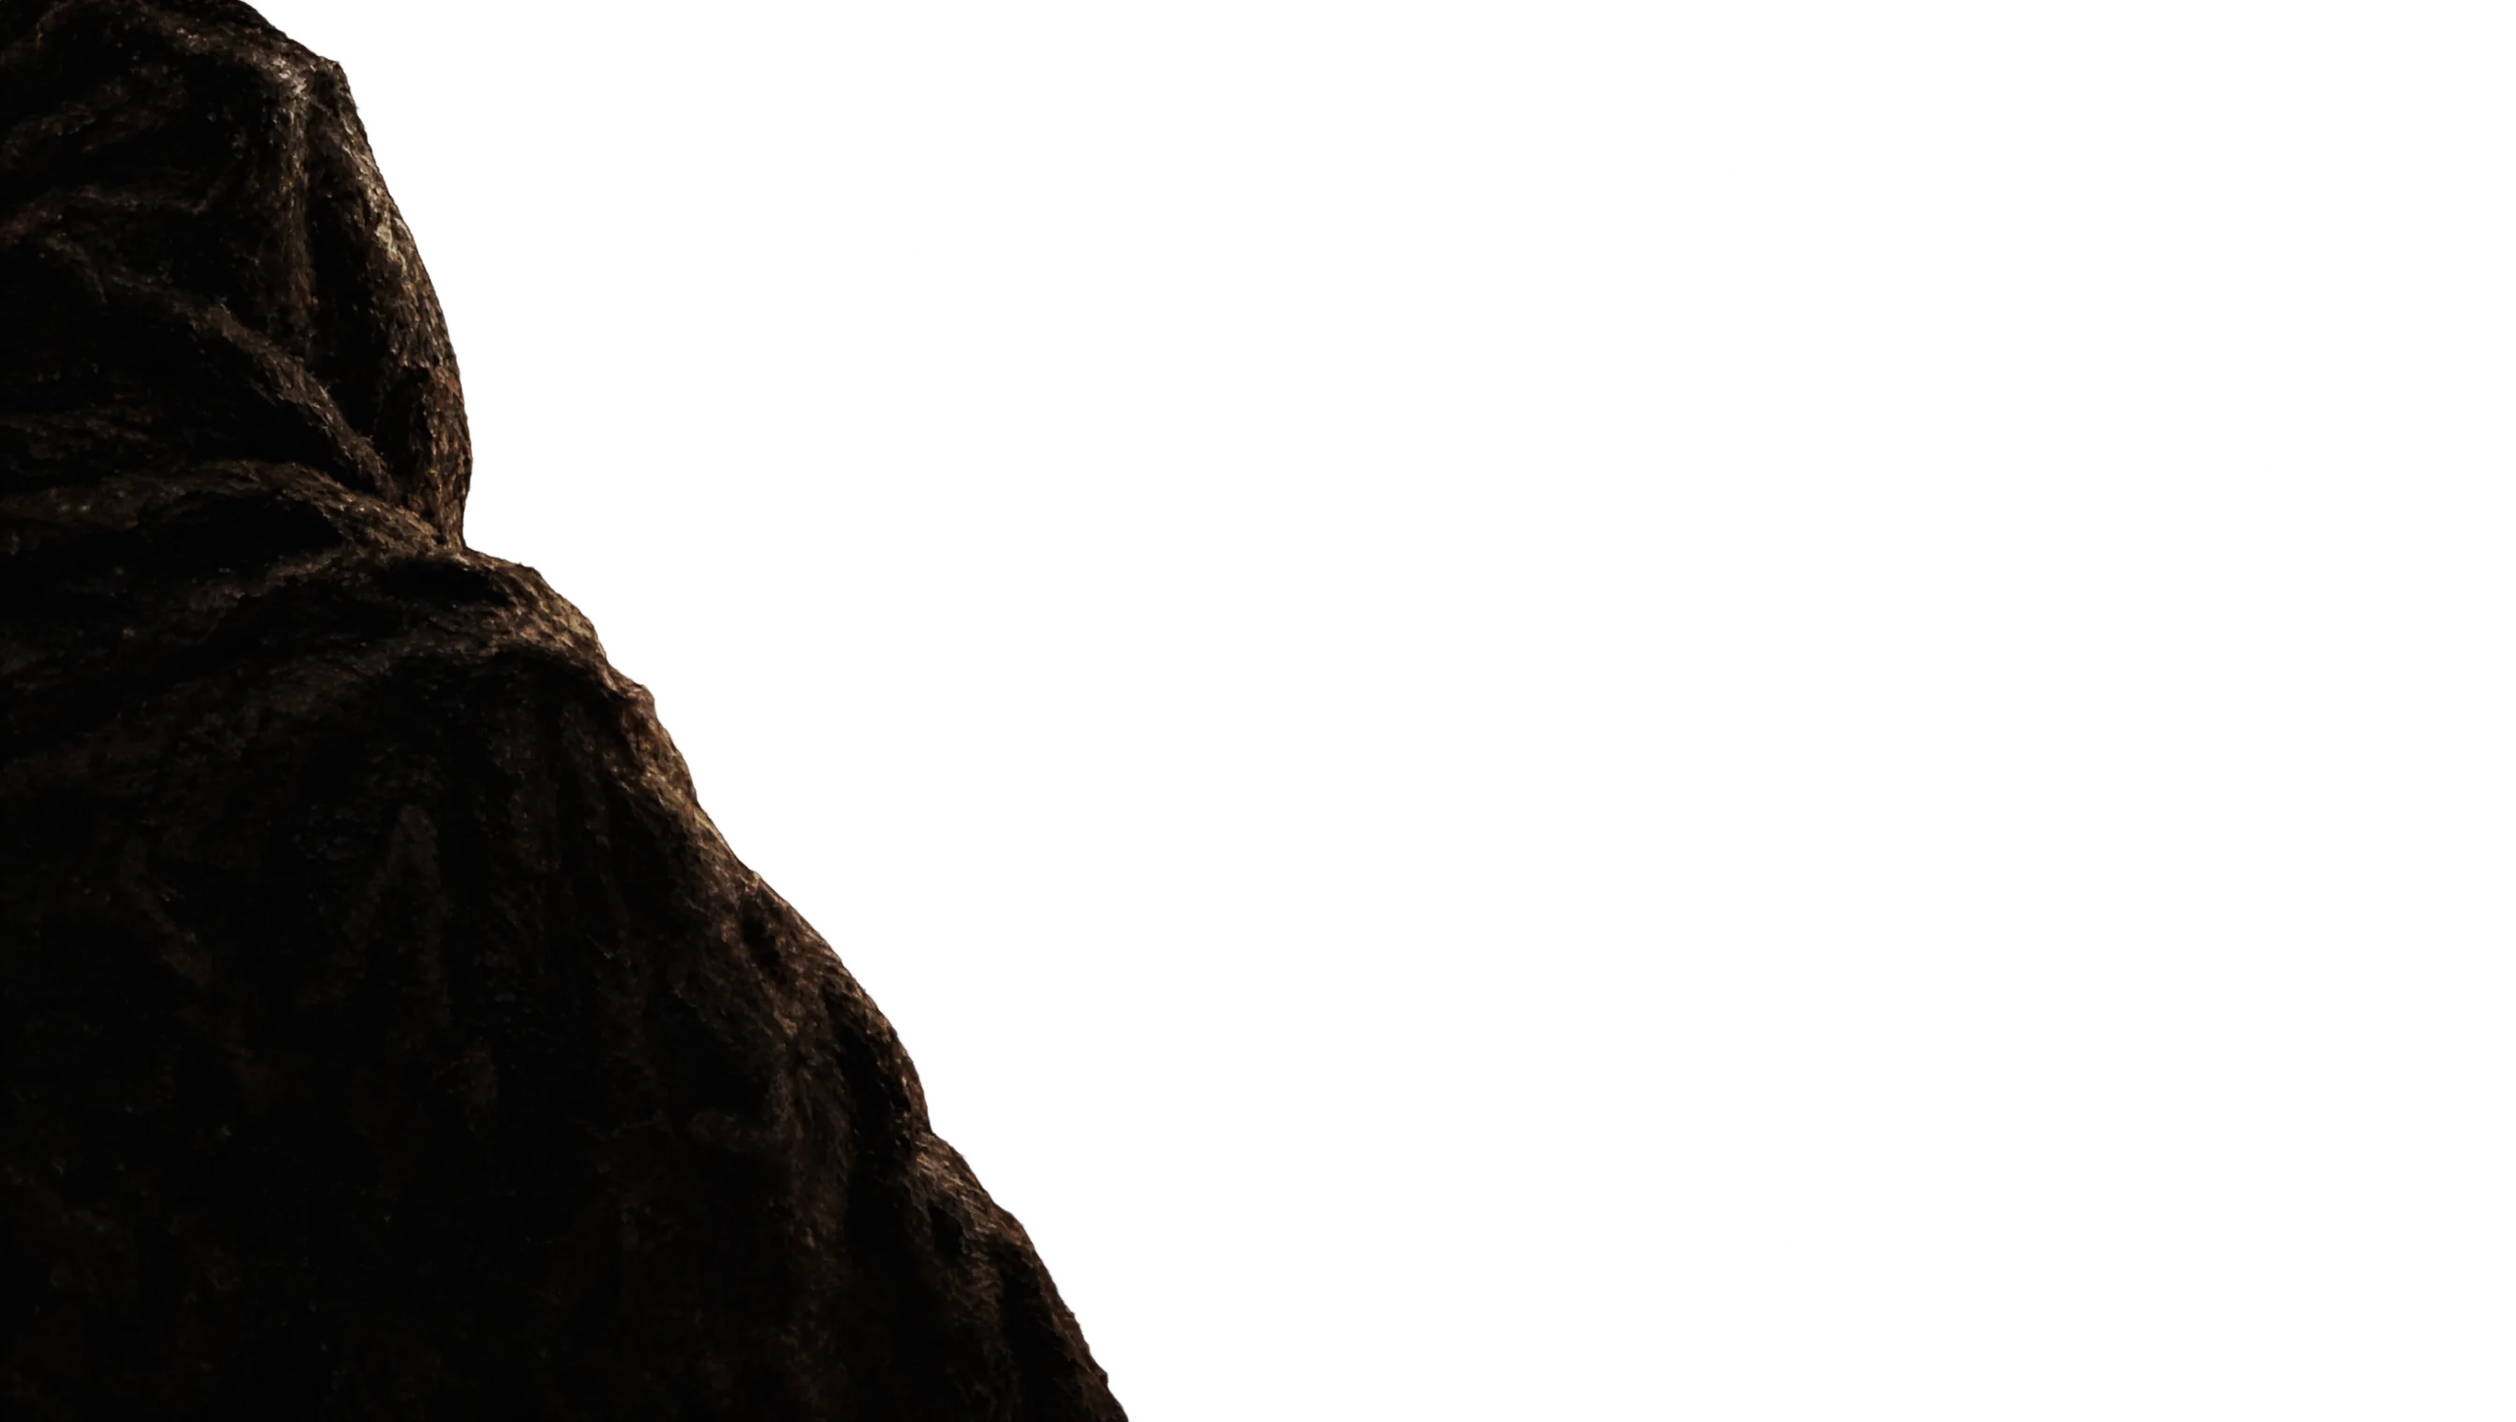
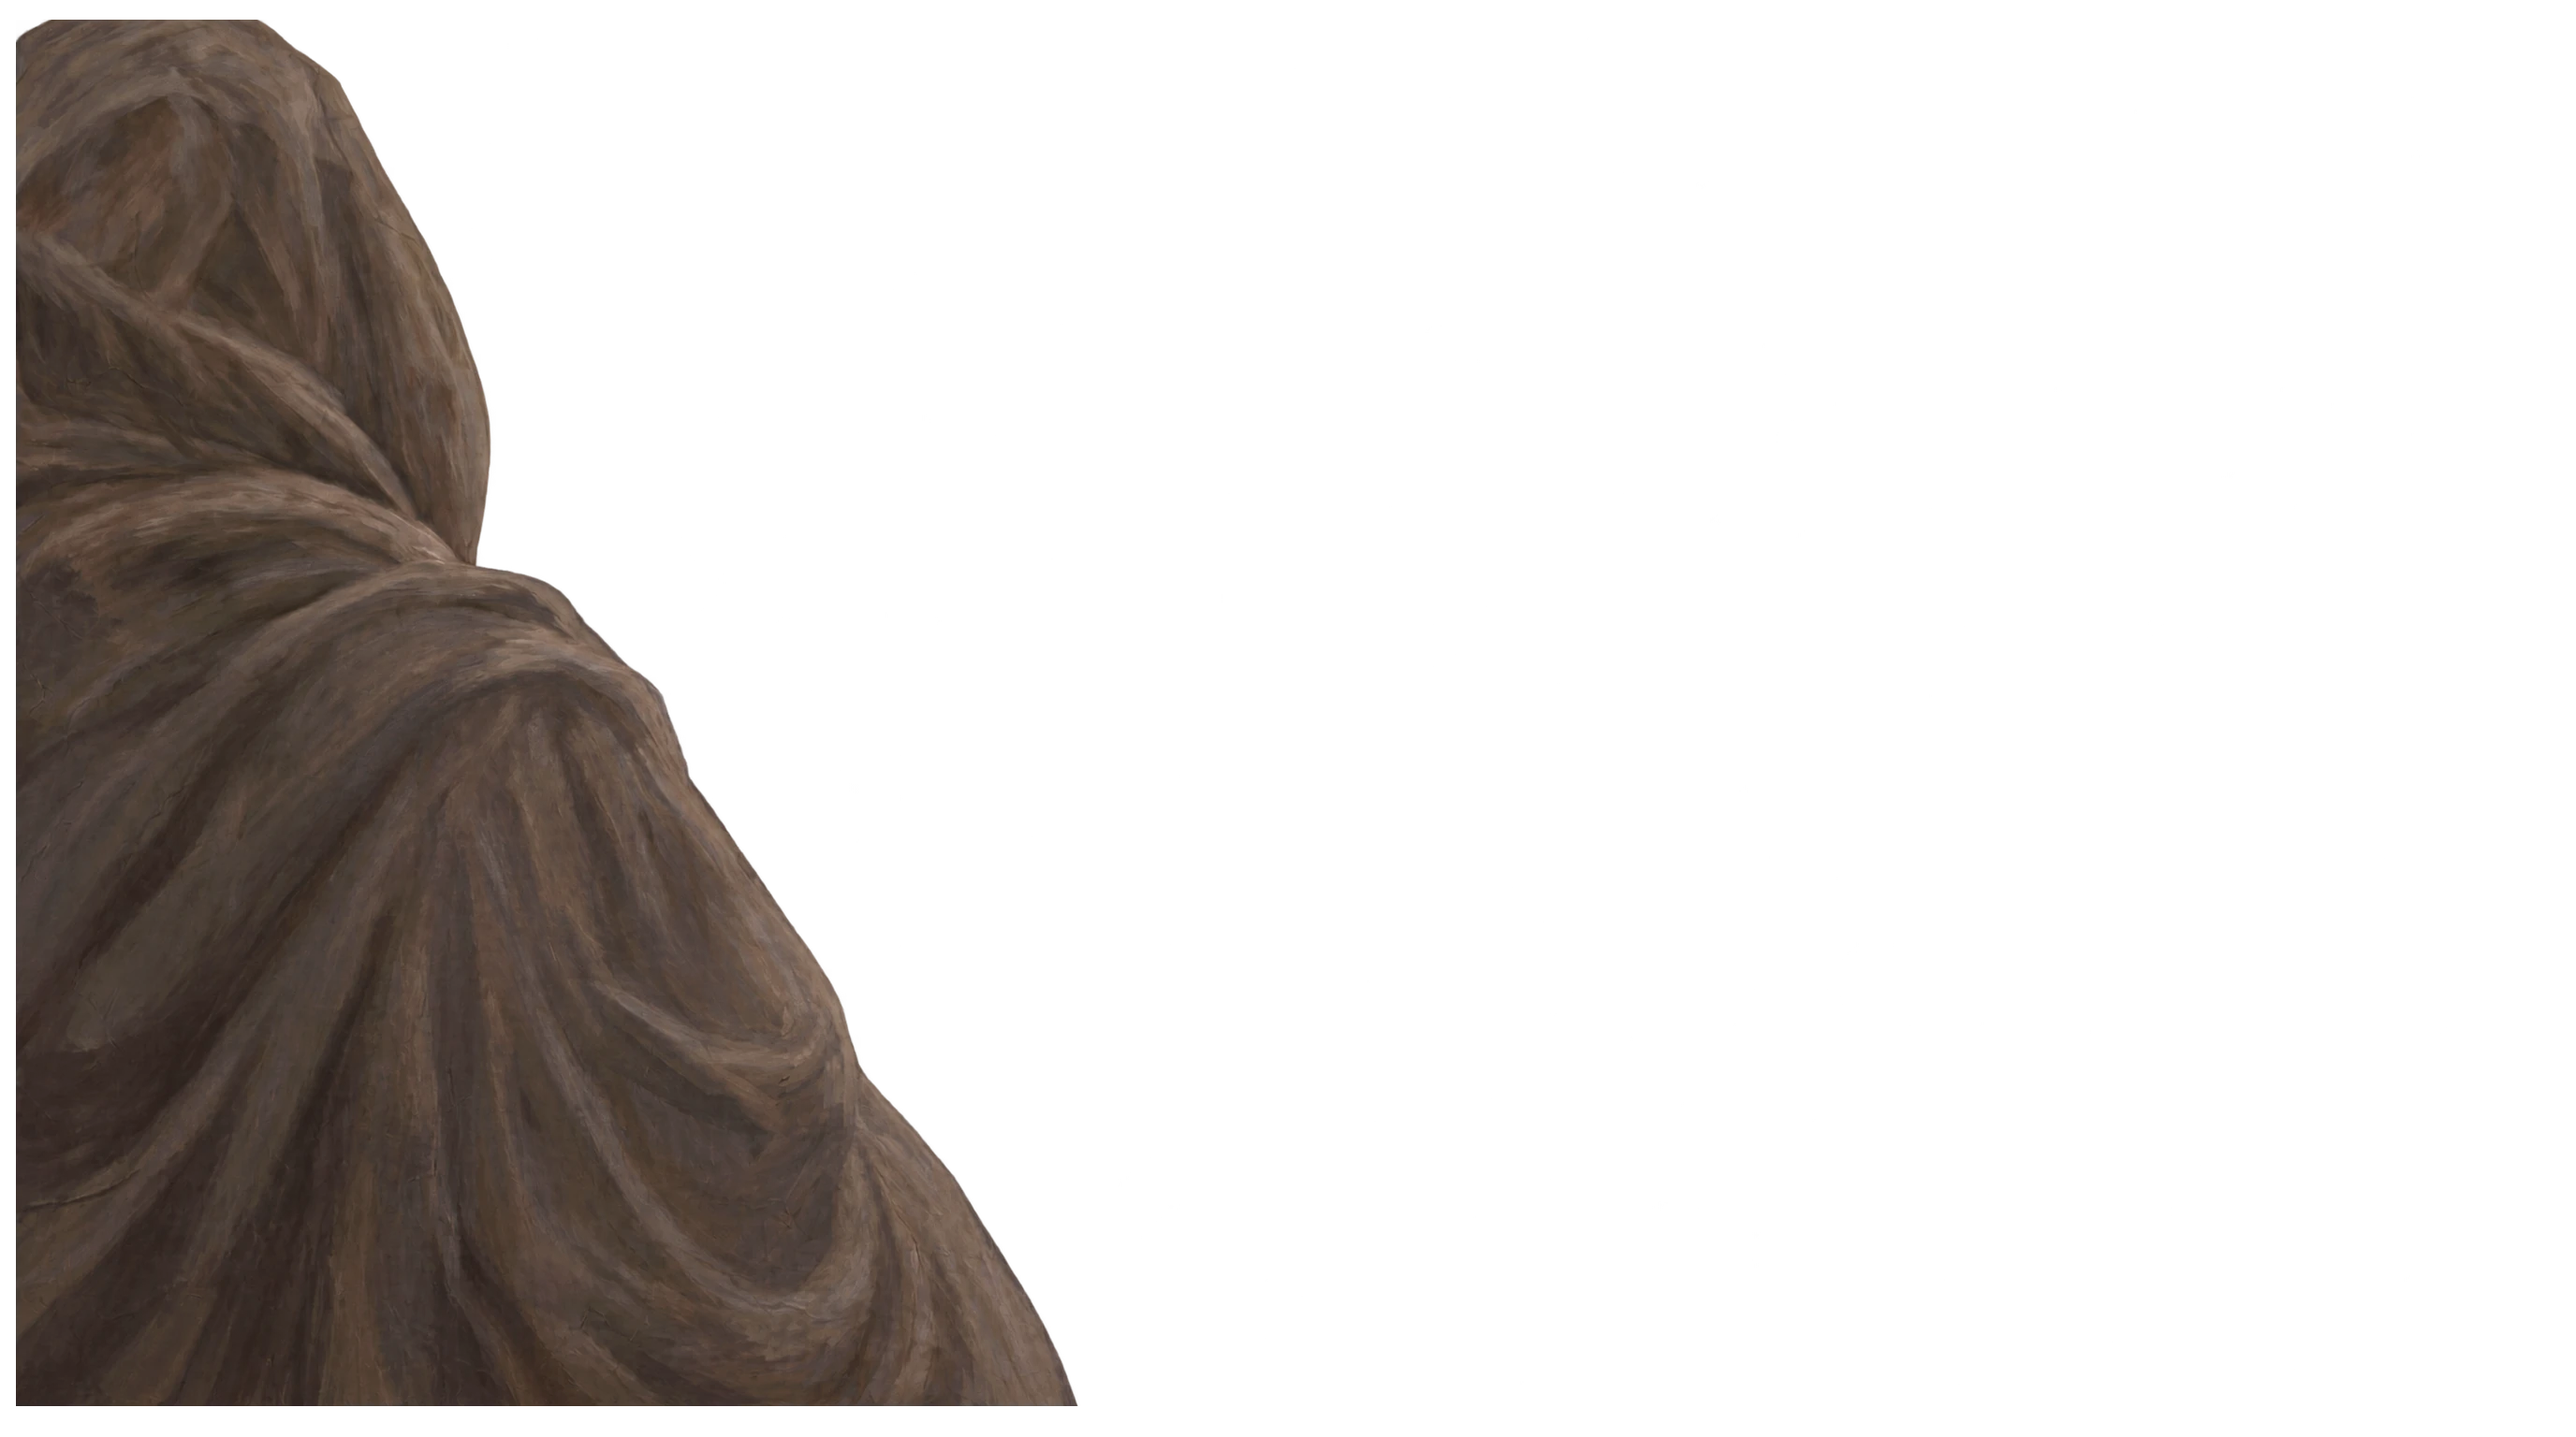
Hero repainted as the arches' fresco: late dusk, same composition
Dmitriy: the hero must match the arches' style. Master = Nano Banana Pro
repaint of the old hero composition (GPT candidate A for composition, B
for contrast, darker dusk), with the reaching woman removed; the big
drape at the left, the ferryman's boat, the pole and the shades on the
far bank stay. Planes: bg by a Nano edit (figures removed), the boat,
the pole and the drape by GPT-2.5 transparent isolations registered onto
the master (tools/hero-layers.py: masked template matching, waterline
fade, bright grade), baked under the same names — the hero choreography
is untouched. Glow retuned to a dusk apricot. Old planes kept in
assets/src/hero-v1-backup; tools/hero-planes.py retired.

Changed region(s): [[0.0, 0.0, 0.4688, 1.0]]

diff --git a/test-sandwich/style.css b/test-sandwich/style.css
@@ -214,12 +214,13 @@ body {
 }
 /* the painting's light under the coin: 1.6× the coin box, linear falloff to
    its edge; GSAP scales it with the coin and fades it out with the scene.
-   Warm bone, not copper — light through old varnish (Dmitriy: "менее цветастое") */
+   Dusk afterglow for the fresco hero — warm apricot, low alpha, so it reads
+   as the last light on the water, not a colour */
 .stage__glow {
   width: min(89.6vh, 89.6vw);
   height: min(89.6vh, 89.6vw);
   border-radius: 50%;
-  background: radial-gradient(circle closest-side, rgba(212, 190, 160, .5), rgba(212, 190, 160, 0));
+  background: radial-gradient(circle closest-side, rgba(226, 178, 132, .42), rgba(226, 178, 132, 0));
 }
 
 .progress { text-transform: uppercase; letter-spacing: .12em; opacity: .5; }

diff --git a/tools/hero-layers.py b/tools/hero-layers.py
@@ -1,0 +1,91 @@
+"""Hero 2 planes from one master (assets/src/hero2/master-v1.png, 16:9):
+  bg.png            opaque repaint without the figures (Nano Banana edit)
+  mid.png           GPT-2.5 transparent isolation: the ferryman + boat
+  front-r.png       …: the pole
+  front-l.png       …: the draped foreground figure
+Each isolation may be re-framed by the generator, so it is REGISTERED onto
+the master (masked template matching over a scale sweep, cv2) and written
+back onto the full canvas; then everything is graded and baked to
+assets/img/hero/{back,mid,front-l,front-r}.webp — the same names the hero
+choreography in main.js already uses. A review sheet + composite is written
+to assets/src/hero2/review.png.
+  python3 tools/hero-layers.py            (register + bake + review)
+"""
+import os
+import numpy as np
+import cv2
+from PIL import Image, ImageChops, ImageDraw, ImageEnhance
+
+ROOT = os.path.dirname(os.path.dirname(os.path.abspath(__file__)))
+SRC = os.path.join(ROOT, 'assets', 'src', 'hero2')
+OUT = os.path.join(ROOT, 'assets', 'img', 'hero')
+SAT = 0.95
+DARKEN = {'back': 0.15, 'mid': 0.05, 'front-l': 0.0, 'front-r': 0.0}   # per depth; the coin must stay the brightest thing
+FADE_MID = (0.86, 0.97)   # the boat's hull sinks into the bg water (fractions of the boat's own alpha bbox height)
+
+master = Image.open(os.path.join(SRC, 'master-v1.png')).convert('RGB')
+MW, MH = master.size
+M = np.asarray(master.convert('L')).astype(np.float32) / 255
+
+def register(src, scales=np.arange(0.5, 1.26, 0.025)):
+    cut = Image.open(os.path.join(SRC, src)).convert('RGBA')
+    bbox = cut.getchannel('A').getbbox(); cut_t = cut.crop(bbox)
+    best = None
+    for s in scales:
+        w = round(cut_t.width * s); h = round(cut_t.height * s)
+        if w < 8 or h < 8 or w > MW or h > MH: continue
+        c = cut_t.resize((w, h), Image.LANCZOS)
+        T = np.asarray(c.convert('L')).astype(np.float32) / 255
+        A = np.asarray(c.getchannel('A')).astype(np.float32) / 255
+        if A.sum() < 100: continue
+        res = cv2.matchTemplate(M, T, cv2.TM_SQDIFF, mask=A) / A.sum()
+        y, x = np.unravel_index(np.argmin(res), res.shape); v = float(res[y, x])
+        if best is None or v < best[0]: best = (v, s, int(x), int(y), w, h)
+    v, s, x, y, w, h = best
+    print(f'{src:12s} scale {s:.3f} at ({x},{y}) {w}x{h} score {v:.4f}')
+    canvas = Image.new('RGBA', master.size, (0, 0, 0, 0))
+    canvas.alpha_composite(cut_t.resize((w, h), Image.LANCZOS), (x, y))
+    return canvas
+
+def grade(im, k):
+    rgb = ImageEnhance.Color(im.convert('RGB')).enhance(SAT)
+    return ImageEnhance.Brightness(rgb).enhance(1 - k)
+
+layers = {}
+bg = Image.open(os.path.join(SRC, 'bg.png')).convert('RGB').resize(master.size, Image.LANCZOS)
+layers['back'] = bg.convert('RGBA')
+layers['mid'] = register('mid.png')
+layers['front-r'] = register('front-r.png')
+layers['front-l'] = register('front-l.png')
+
+# the boat's waterline: fade the lowest part of the mid layer's bbox
+a = layers['mid'].getchannel('A'); x0, y0, x1, y1 = a.getbbox(); bh = y1 - y0
+ya, yb = round(y0 + FADE_MID[0] * bh), round(y0 + FADE_MID[1] * bh)
+col = bytes(255 if y < ya else 0 if y >= yb else round(255 * (yb - y) / (yb - ya)) for y in range(MH))
+layers['mid'].putalpha(ImageChops.multiply(a, Image.frombytes('L', (1, MH), col).resize((MW, MH), Image.NEAREST)))
+
+os.makedirs(OUT, exist_ok=True)
+for name, im in layers.items():
+    g = grade(im, DARKEN[name])
+    if name == 'back':
+        g.save(os.path.join(OUT, 'back.webp'), 'WEBP', quality=86, method=6)
+    else:
+        g.putalpha(im.getchannel('A')); g.save(os.path.join(OUT, f'{name}.webp'), 'WEBP', quality=90, method=6)
+    p = os.path.join(OUT, f'{name}.webp'); print(f'{name:8s} {Image.open(p).size} {os.path.getsize(p)//1024} KB')
+
+# review: master · back · mid · front-l · front-r · composite (graded, on black)
+comp = Image.new('RGBA', master.size, (0, 0, 0, 255))
+for name in ('back', 'mid', 'front-l', 'front-r'):
+    comp.alpha_composite(Image.open(os.path.join(OUT, f'{name}.webp')).convert('RGBA'))
+tiles = [master, layers['back'].convert('RGB'), layers['mid'], layers['front-l'], layers['front-r'], comp.convert('RGB')]
+labels = ['master', 'back', 'mid', 'front-l', 'front-r', 'composite']
+th = 300; ims = []
+for t in tiles:
+    t = t.copy(); t.thumbnail((10000, th)); ims.append(t)
+sheet = Image.new('RGB', (ims[0].width * 3 + 40, th * 2 + 70), (100, 0, 100)); d = ImageDraw.Draw(sheet)
+for i, (t, lab) in enumerate(zip(ims, labels)):
+    x = 10 + (i % 3) * (ims[0].width + 10); y = 25 + (i // 3) * (th + 30)
+    if t.mode == 'RGBA': sheet.paste(t, (x, y), t)
+    else: sheet.paste(t, (x, y))
+    d.text((x, y - 15), lab, fill=(255, 255, 255))
+sheet.save(os.path.join(SRC, 'review.png')); print('review', sheet.size)

diff --git a/docs/concept.md b/docs/concept.md
@@ -76,7 +76,7 @@
   монета. Сильнее по «мускулу», но уход планов не несёт сюжета так прямо, как
   отчаливающая лодка.
 
-Стиль (общий для A/B), черновик промпта на этап B:
+Стиль — **пересмотрен**: хиро перерисован в той же фреске, что арки (светлый ренессанс, штукатурка, кракелюр), поздние сумерки вместо ночи; мастер `assets/src/hero2/master-v1.png` (Nano Banana Pro, композиция A + контраст B, пассажирка убрана), планы — `tools/hero-layers.py`. Ниже — исходный черновик промпта (тенебризм), исторический:
 
 > oil on canvas, Spanish baroque tenebrism (Zurbarán, Ribera, Subleyras),
 > one warm light source at the exact centre of the frame, deep black shadows,
